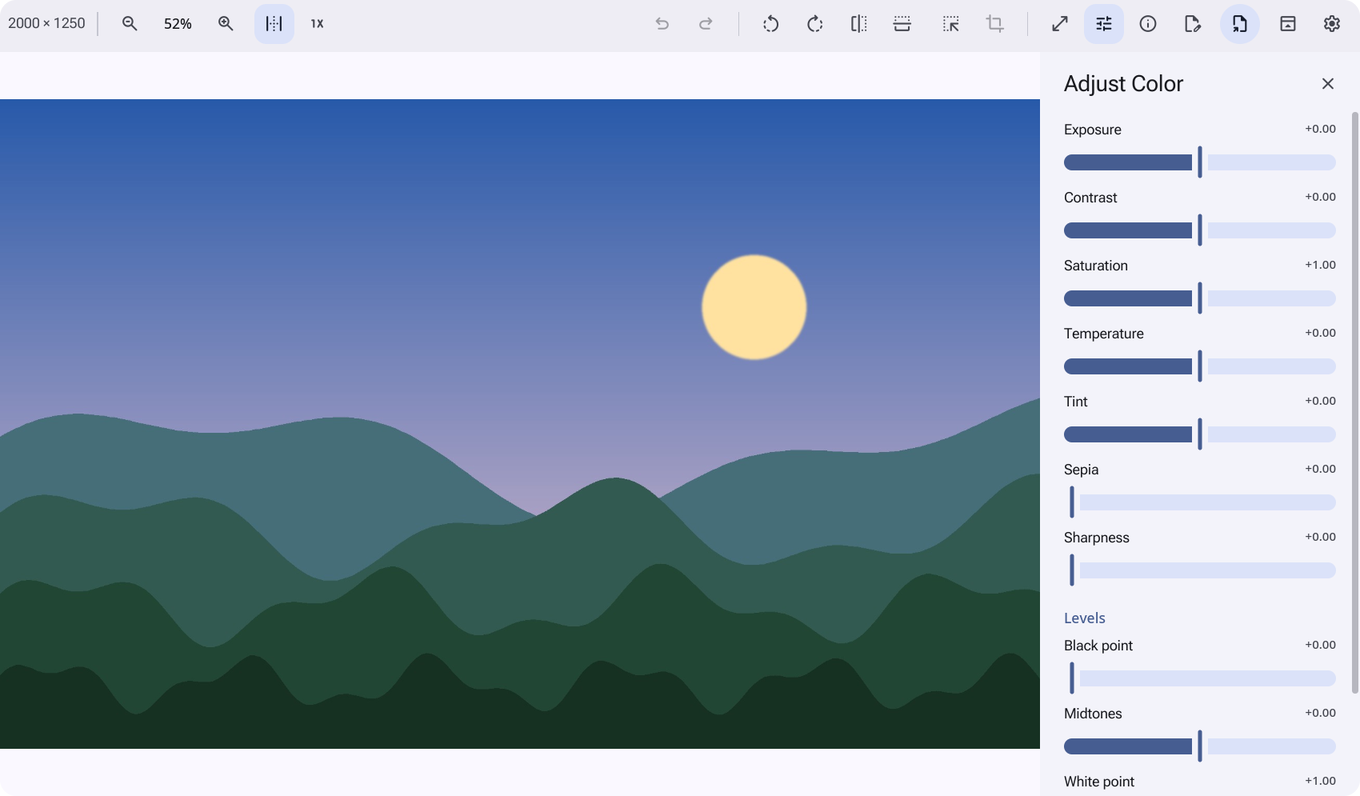
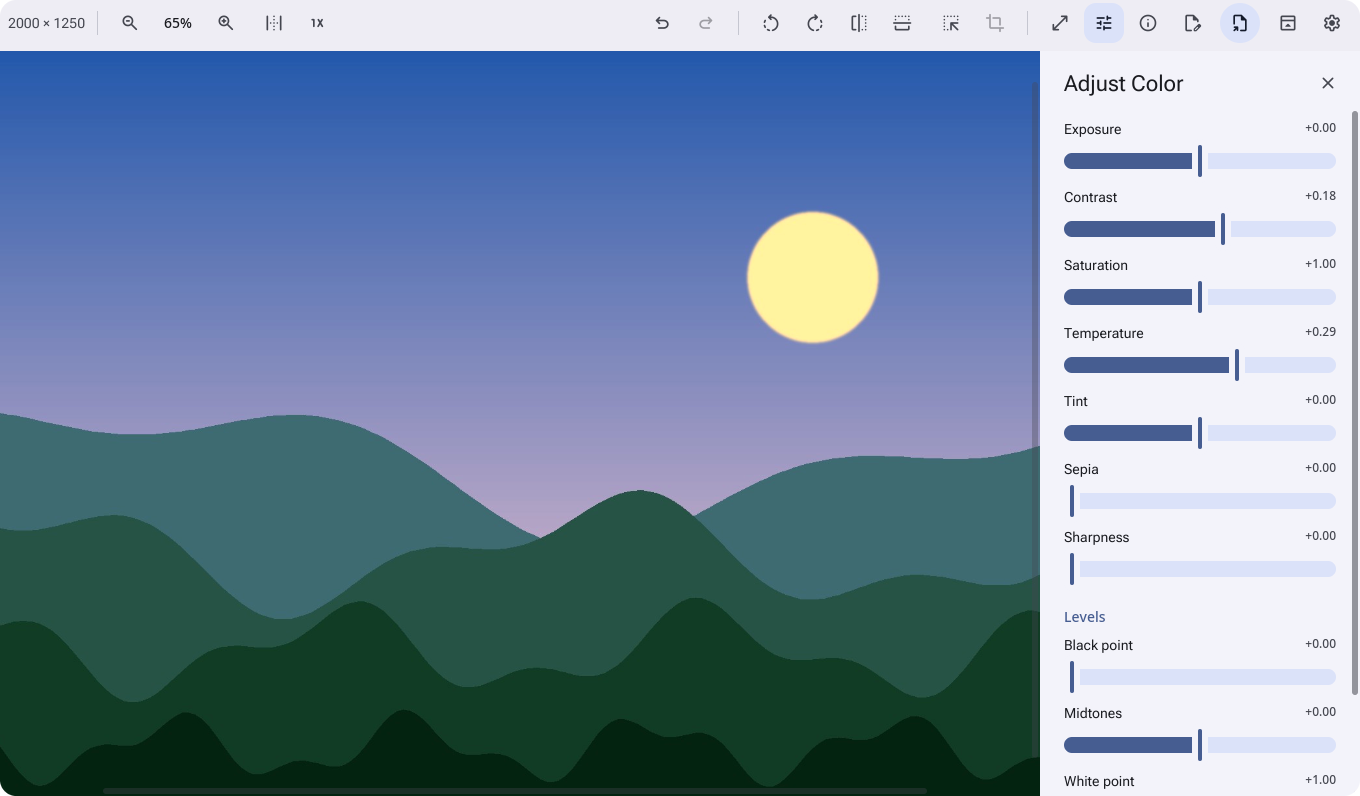
docs: redo screenshots and show prev's languages
- Retake the screenshots on the sample annual report, a new garden
  plot form and the landscape photo, each filling the preview area
- Redraw the signature GIF on the new form
- Add the report in six languages and prev on Windows and macOS to the
  website and README
- List the 21 languages in the README

diff --git a/site/index.html b/site/index.html
@@ -15,7 +15,7 @@
   <nav>
     <a href="#features">Features</a>
     <a href="#download">Download</a>
-    <a href="https://github.com/scrambletools/prev/blob/main/docs/GUIDE.md">Guide</a>
+    <a href="guide.html">Guide</a>
     <a class="repo" href="https://github.com/scrambletools/prev">Source on GitHub</a>
   </nav>
 </header>
@@ -30,7 +30,7 @@
       <a class="button filled" href="#download">Download prev 1.2.0</a>
       <a class="button tonal" href="https://github.com/scrambletools/prev">Source on GitHub</a>
     </p>
-    <p class="small">Free and open source under the AGPL-3.0. For Linux, on Wayland desktops such as Hyprland and Omarchy, and for Windows 10 and 11.</p>
+    <p class="small">Free and open source under the AGPL-3.0. For Linux, on Wayland desktops such as Hyprland and Omarchy, and for Windows 10 and 11. In 21 languages.</p>
     <img class="shot hero-shot" src="screenshots/markup.png" alt="A form filled in, marked up with a highlight, shapes, a text box and a note, and signed" width="1360" height="796">
   </section>
 
@@ -64,16 +64,40 @@
     </div>
     <div class="gallery">
       <figure><img class="shot" src="screenshots/table-of-contents.png" alt="A PDF with its table of contents in the sidebar" width="1360" height="796" loading="lazy"><figcaption>Table of contents and bookmarks</figcaption></figure>
-      <figure><img class="shot" src="screenshots/image-markup.png" alt="A photo marked up with an oval, an arrow and a text box" width="1360" height="796" loading="lazy"><figcaption>Markup on photos too</figcaption></figure>
+      <figure><img class="shot" src="screenshots/image-markup.png" alt="A landscape photo marked up with an oval around the moon, an arrow and the word Moonrise" width="1360" height="796" loading="lazy"><figcaption>Markup on photos too</figcaption></figure>
       <figure><img class="shot" src="screenshots/pages.png" alt="Page 3 of an annual report being dragged below page 4 in the page thumbnails, with a line where it will go" width="1360" height="796" loading="lazy"><figcaption>Drag pages to reorder</figcaption></figure>
       <figure><img class="shot" src="screenshots/redaction-applied.png" alt="A statement after redaction, with black boxes where the name, address, account numbers and tax ID were" width="1360" height="796" loading="lazy"><figcaption>Redaction that removes the content</figcaption></figure>
-      <figure><img class="shot" src="screenshots/signatures.png" alt="The Sign menu open over a form, listing a drawn and a typed signature and Create Signature" width="1360" height="796" loading="lazy"><figcaption>Pick a saved signature to place it</figcaption></figure>
+      <figure><img class="shot" src="screenshots/signatures.png" alt="The Sign menu open over a garden plot application, listing a drawn and a typed signature and Create Signature" width="1360" height="796" loading="lazy"><figcaption>Pick a saved signature to place it</figcaption></figure>
       <figure><img class="shot" src="screenshots/signature-draw.gif" alt="Signing Jordan Example in blue ink in the Create Signature dialog, then typing the description" width="1360" height="796" loading="lazy"><figcaption>Draw, type or import a signature</figcaption></figure>
     </div>
     <figure class="wide">
       <img class="shot" src="screenshots/drag-from-browser.gif" alt="Dragging a photo of Saturn from a Wikimedia Commons page in a browser into the empty photo space of a newsletter PDF open in prev, where it lands as a picture above its caption" width="1360" height="620" loading="lazy">
       <figcaption>Drag pictures, text and files in from other apps, such as a photo from a web page, and pages and pictures out</figcaption>
     </figure>
+  </section>
+
+  <section id="languages" class="features">
+    <h2>prev in your language</h2>
+    <p class="section-lede">The interface comes in 21 languages and follows your system, laid out right to left for Arabic, Hebrew and Persian. Here is the same annual report in six of them.</p>
+    <div class="gallery three">
+      <figure><img class="shot" src="screenshots/languages/en.png" alt="prev in English, showing the annual report of a community garden with its table of contents" width="1360" height="796" loading="lazy"><figcaption>English</figcaption></figure>
+      <figure><img class="shot" src="screenshots/languages/he.png" alt="prev in Hebrew, laid out right to left, showing the annual report in Hebrew" width="1360" height="796" loading="lazy"><figcaption>עברית</figcaption></figure>
+      <figure><img class="shot" src="screenshots/languages/ar.png" alt="prev in Arabic, laid out right to left, showing the annual report in Arabic" width="1360" height="796" loading="lazy"><figcaption>العربية</figcaption></figure>
+      <figure><img class="shot" src="screenshots/languages/ja.png" alt="prev in Japanese, showing the annual report in Japanese" width="1360" height="796" loading="lazy"><figcaption>日本語</figcaption></figure>
+      <figure><img class="shot" src="screenshots/languages/zh-CN.png" alt="prev in Simplified Chinese, showing the annual report in Chinese" width="1360" height="796" loading="lazy"><figcaption>简体中文</figcaption></figure>
+      <figure><img class="shot" src="screenshots/languages/ru.png" alt="prev in Russian, showing the annual report in Russian" width="1360" height="796" loading="lazy"><figcaption>Русский</figcaption></figure>
+    </div>
+  </section>
+
+  <section id="platforms" class="features">
+    <h2>At home on each system</h2>
+    <p class="section-lede">The same app on Linux, Windows and macOS, with each system's own window, shortcuts and, on the Mac, the menu bar. macOS comes with the next release.</p>
+    <div class="gallery">
+      <figure><img class="shot plain" src="screenshots/platforms/windows-markup.png" alt="prev on Windows 11 with a garden plot application filled in, highlighted, circled, noted and signed" width="1346" height="843" loading="lazy"><figcaption>Filling in and signing a form on Windows</figcaption></figure>
+      <figure><img class="shot plain" src="screenshots/platforms/windows-image-markup.png" alt="prev on Windows 11 with a landscape photo marked up with an oval, an arrow and the word Moonrise" width="1346" height="843" loading="lazy"><figcaption>Marking up a photo on Windows</figcaption></figure>
+      <figure><img class="shot plain" src="screenshots/platforms/macos-markup.png" alt="prev on macOS, below its menu bar, with the garden plot application filled in and signed" width="1210" height="997" loading="lazy"><figcaption>The same form on macOS</figcaption></figure>
+      <figure><img class="shot plain" src="screenshots/platforms/macos-image-markup.png" alt="prev on macOS, below its menu bar, with the landscape photo marked up" width="1212" height="997" loading="lazy"><figcaption>The same photo on macOS</figcaption></figure>
+    </div>
   </section>
 
   <section id="download" class="download">

diff --git a/site/style.css b/site/style.css
@@ -86,10 +86,10 @@ code {
   text-decoration: none;
 }
 
-nav { display: flex; gap: 20px; flex-wrap: wrap; }
-nav a { color: var(--on-surface-variant); text-decoration: none; font-weight: 500; }
-nav a:hover { color: var(--primary); }
-nav .repo { color: var(--primary); }
+.top nav { display: flex; gap: 20px; flex-wrap: wrap; }
+.top nav a { color: var(--on-surface-variant); text-decoration: none; font-weight: 500; }
+.top nav a:hover { color: var(--primary); }
+.top nav .repo { color: var(--primary); }
 
 main, footer { max-width: 1080px; margin: 0 auto; padding: 0 16px; }
 
@@ -123,6 +123,9 @@ h3 { font-size: 20px; margin: 0 0 6px; font-weight: 650; }
 .grid p { margin: 0; color: var(--on-surface-variant); }
 
 .gallery { display: grid; grid-template-columns: repeat(2, 1fr); gap: 24px; margin-top: 40px; }
+.gallery.three { grid-template-columns: repeat(3, 1fr); }
+.shot.plain { border-radius: 8px; }
+.section-lede { max-width: 720px; margin: 0 auto; text-align: center; color: var(--on-surface-variant); }
 figure { margin: 0; }
 figure.wide { margin-top: 24px; }
 figcaption { margin-top: 10px; text-align: center; color: var(--on-surface-variant); font-size: 15px; }
@@ -139,11 +142,25 @@ td a { white-space: nowrap; }
 .policy li { margin-bottom: 8px; }
 .policy h3 { margin-top: 28px; }
 
+/* The guide: one column of text, its screenshots a little wider. */
+.guide { max-width: 860px; padding-top: 32px; padding-bottom: 56px; }
+.guide h1 { font-size: clamp(40px, 7vw, 56px); margin-bottom: 24px; }
+.guide h2 { margin-top: 56px; scroll-margin-top: 80px; }
+.guide h3 { margin-top: 32px; scroll-margin-top: 80px; }
+.guide figure { margin: 24px 0; }
+.guide .table { margin: 16px 0; }
+.guide li { margin-bottom: 6px; }
+.guide .gallery { margin: 16px 0; gap: 16px; }
+.contents ul { display: flex; flex-wrap: wrap; gap: 8px; padding: 0; margin: 0 0 24px; list-style: none; }
+.contents li { margin: 0; }
+.contents a { display: inline-block; padding: 6px 14px; border-radius: 999px; background: var(--surface-container); color: var(--on-surface); text-decoration: none; font-size: 15px; }
+.contents a:hover { background: var(--primary-container); color: var(--on-primary-container); }
+
 footer { padding: 32px 16px 48px; border-top: 1px solid var(--outline-variant); color: var(--on-surface-variant); font-size: 15px; }
 
 @media (max-width: 640px) {
   section { padding: 40px 0; }
-  .gallery { grid-template-columns: 1fr; }
+  .gallery, .gallery.three { grid-template-columns: 1fr; }
   /* Each download as a small card: the system, the file, then how. */
   thead { display: none; }
   table, tbody, tr, td { display: block; }
@@ -154,5 +171,5 @@ footer { padding: 32px 16px 48px; border-top: 1px solid var(--outline-variant); 
   td:empty { display: none; }
   td code { white-space: normal; word-break: break-all; }
   .lede { font-size: 18px; }
-  nav { gap: 14px; font-size: 15px; }
+  .top nav { gap: 14px; font-size: 15px; }
 }

diff --git a/README.md b/README.md
@@ -21,13 +21,12 @@ Website and downloads: **[prev.run](https://prev.run)**
 
 ![A form filled in, marked up with a highlight, shapes, a text box and a note, and signed](docs/screenshots/markup.png)
 
-![The signature library with a drawn and a typed signature](docs/screenshots/signatures.png)
+![The Sign menu open over a garden plot application, listing a drawn and a typed signature](docs/screenshots/signatures.png)
 
-<sub>Documents shown: NIST SP 800-63-3, a US government publication in the
-public domain, and a sample form made for prev.</sub>
+<sub>Documents shown: a sample annual report and form made for prev.</sub>
 
 For a walkthrough of every feature with more screenshots, see
-[A tour of prev](docs/GUIDE.md).
+[A tour of prev](https://prev.run/guide.html) on the website.
 
 ## Features
 
@@ -54,7 +53,7 @@ For a walkthrough of every feature with more screenshots, see
     where it should go.
   - Everything is saved as standard PDF annotations that other viewers
     show and edit.
-- **Drag and drop** both ways ([details](docs/GUIDE.md#drag-and-drop)):
+- **Drag and drop** both ways ([details](https://prev.run/guide.html#drag-and-drop)):
   - Drop images, text, files and pages from other windows and apps
     where they should go: images and text onto pages or an image's
     markup, pages and PDFs among the thumbnails, image files into an
@@ -325,10 +324,21 @@ to it. Packages are built with `PREV_PRODUCTION=1`; see
 
 ## Translations
 
-prev's interface is in English so far. It follows the system's
-language, or the one chosen under Language in Settings. All of its text
-is in `i18n/<language>/prev.ftl`, one file per language; see
-[docs/TRANSLATING.md](docs/TRANSLATING.md) to add one.
+prev's interface is in Arabic, Chinese (Simplified and Traditional),
+Danish, Dutch, English (US and UK), French, German, Hebrew, Hindi,
+Italian, Japanese, Korean, Persian, Polish, Portuguese (Brazil), Russian,
+Spanish, Turkish and Ukrainian, laid out right to left for Arabic,
+Hebrew and Persian. It follows the system's language, or the one chosen
+under Language in Settings. The translations other than English are
+first drafts open to further review; corrections are welcome.
+
+| | | |
+|:-:|:-:|:-:|
+| ![prev in English](docs/screenshots/languages/en.png) English | ![prev in Hebrew, laid out right to left](docs/screenshots/languages/he.png) Hebrew | ![prev in Arabic, laid out right to left](docs/screenshots/languages/ar.png) Arabic |
+| ![prev in Japanese](docs/screenshots/languages/ja.png) Japanese | ![prev in Simplified Chinese](docs/screenshots/languages/zh-CN.png) Chinese | ![prev in Russian](docs/screenshots/languages/ru.png) Russian |
+
+All of prev's text is in `i18n/<language>/prev.ftl`, one file per
+language; see [docs/TRANSLATING.md](docs/TRANSLATING.md) to add one.
 
 ## License
 
